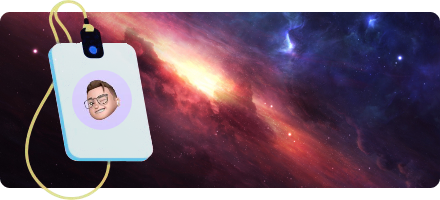
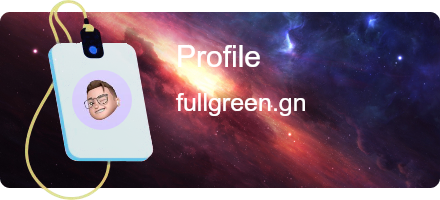
canvas

Changed region(s): [[0.3841, 0.45, 0.7091, 0.6], [0.3841, 0.21, 0.5909, 0.36]]

diff --git a/src/commands/user/profile.ts b/src/commands/user/profile.ts
@@ -23,6 +23,22 @@ const command: ICommand = {
         const { body } = await request(interaction.user.displayAvatarURL({ extension: 'jpg' }));
         const avatar = await loadImage(body);
 
+         // Reset clipping path to allow full canvas drawing
+         ctx.restore();
+ 
+         // Set font and fill style for the text
+         ctx.font = '28px sans-serif';
+         ctx.fillStyle = '#fff';
+ 
+         // Position the text and draw it on the canvas
+         ctx.font = '30px bold sans-serif';
+         ctx.fillText('Profile', canvas.width / 2.5, canvas.height / 3);
+ 
+         // Apply text for the username and draw it
+         const username = `${interaction.member?.user.username}`;
+         ctx.font = applyText(canvas, username);
+         ctx.fillText(username, canvas.width / 2.5, canvas.height / 1.8);
+
         // Start the circular clipping path
         ctx.beginPath();
         ctx.arc(102, 100, 30, 0, Math.PI * 2, true);
@@ -31,23 +47,6 @@ const command: ICommand = {
 
         // Draw the avatar image within the circular clipping area
         ctx.drawImage(avatar, 72, 70, 60, 60);
-
-        // Reset clipping path to allow full canvas drawing
-        ctx.restore();
-
-        ctx.strokeRect(0, 0, canvas.width, canvas.height);
-
-        // Set font and fill style for the text
-        ctx.font = '28px sans-serif';
-        ctx.fillStyle = '#ffffff';
-
-        // Position the text and draw it on the canvas
-        ctx.fillText('Profile', 0, 0);
-
-        // Apply text for the username and draw it
-        const username = `${interaction.member?.user.username}!`;
-        ctx.font = '20px sans-serif';
-        ctx.fillText(username, 0, 0);
 
         // Save the image to a file (for testing)
         fs.writeFileSync('profile.png', canvas.toBuffer('image/png'));

diff --git a/src/events/guildMemberAdd.ts b/src/events/guildMemberAdd.ts
@@ -1,4 +1,5 @@
 import { IEvent } from "@/types";
+import { applyText } from "@/utils/textUtil";
 import { createCanvas, loadImage } from "@napi-rs/canvas";
 import { AttachmentBuilder, EmbedBuilder, Events, GuildMember } from "discord.js";
 import path = require("path");
@@ -27,16 +28,20 @@ const event: IEvent = {
 
         ctx.restore();
 
-        ctx.strokeRect(0, 0, canvas.width, canvas.height);
 
         ctx.font = '28px sans-serif';
         ctx.fillStyle = '#ffffff';
 
         ctx.fillText('Profile', 0, 0);
 
-        const username = `${member?.user.username}!`;
-        ctx.font = '20px sans-serif';
-        ctx.fillText(username, 0, 0);
+        // Position the text and draw it on the canvas
+        ctx.font = '30px bold sans-serif';
+        ctx.fillText('Welcome !', canvas.width / 2.5, canvas.height / 3);
+
+        // Apply text for the username and draw it
+        const username = `${member?.user.username}`;
+        ctx.font = applyText(canvas, username);
+        ctx.fillText(username, canvas.width / 2.5, canvas.height / 1.8);
 
         const attachment = new AttachmentBuilder(await canvas.encode('png'), { name: 'profile.png' });
 

diff --git a/src/commands/mod/clear.ts b/src/commands/mod/clear.ts
@@ -6,7 +6,12 @@ const command: ICommand = {
     data: new SlashCommandBuilder()
         .setName('clear')
         .setDescription('Clears messages in a channel.')
-        .addIntegerOption(option => option.setName('amount').setDescription('Amount of messages to clear.').setRequired(false)),
+        .addIntegerOption(option => option
+            .setName('amount')
+            .setDescription('Amount of messages to clear.')
+            .setRequired(false).setMinValue(1)
+            .setMaxValue(100)
+        ),
     category: 'mod',
     execute: async (interaction: CommandInteraction) => {
         const amount = interaction.options.get('amount', false)?.value as number || 100;

diff --git a/src/utils/textUtil.ts b/src/utils/textUtil.ts
@@ -8,7 +8,7 @@ export const applyText = (canvas: Canvas, text: string) => {
 
 	do {
 		// Assign the font to the context and decrement it so it can be measured again
-		context.font = `${fontSize -= 10}px sans-serif`;
+		context.font = `${fontSize -= 5}px sans-serif`;
 		// Compare pixel width of the text to the canvas minus the approximate avatar size
 	} while (context.measureText(text).width > canvas.width - 300);
 
